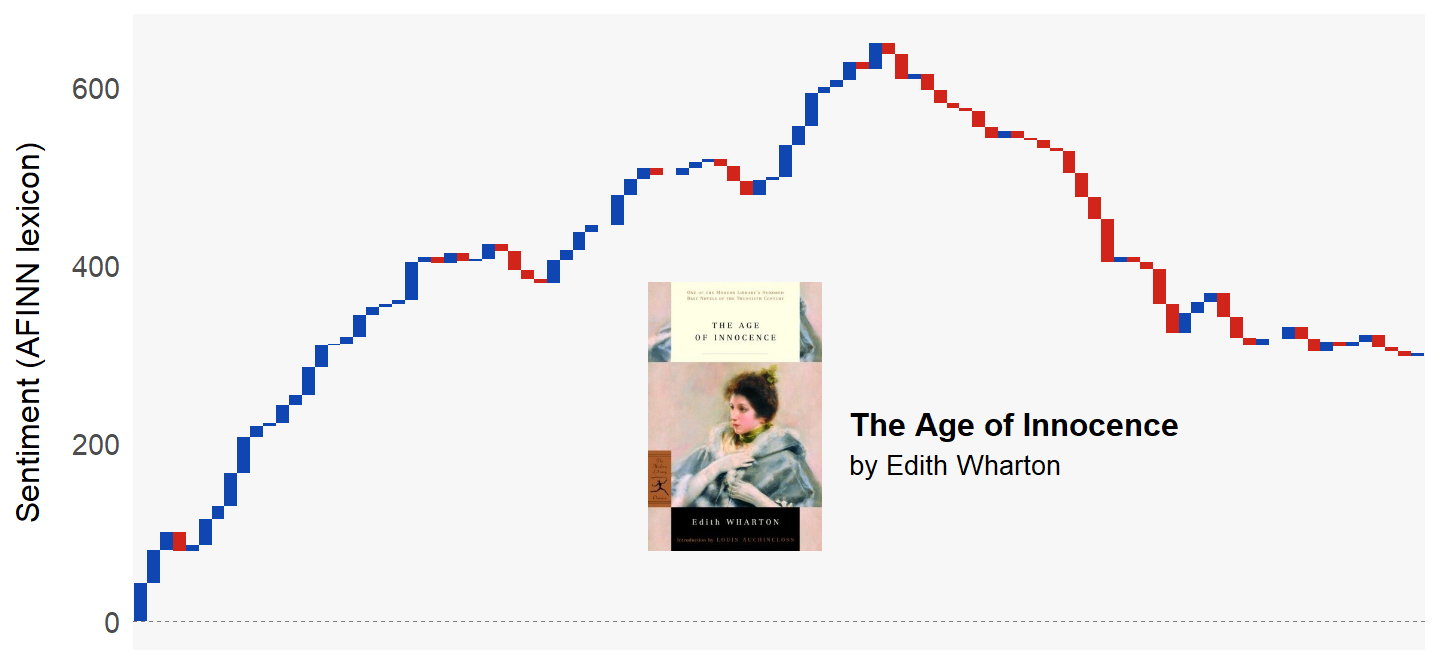
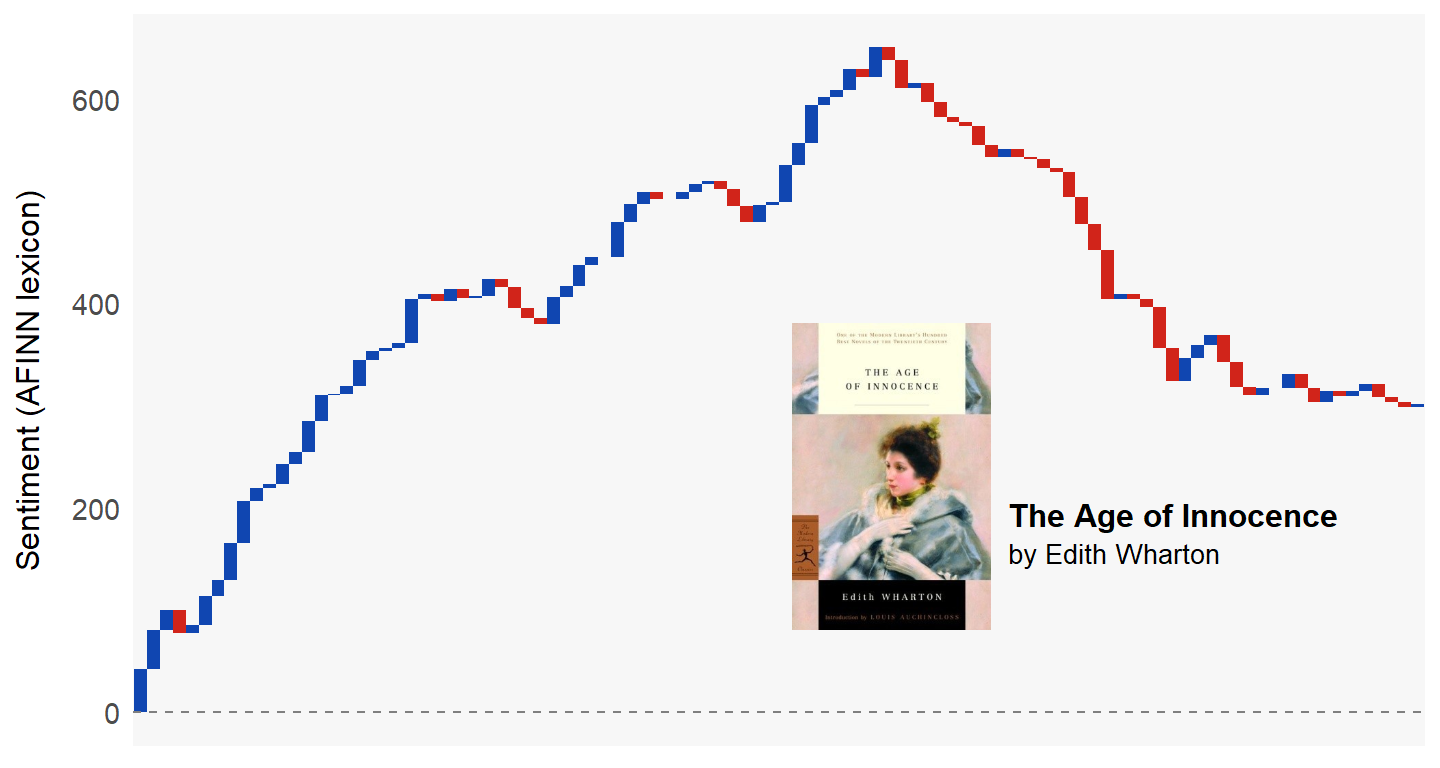
edit to post

diff --git a/docs/posts/2022-11-19-the-emotional-shape-of-novels/index.html b/docs/posts/2022-11-19-the-emotional-shape-of-novels/index.html
@@ -106,7 +106,7 @@ code span.wa { color: #5e5e5e; font-style: italic; } /* Warning */
 <meta property="og:url" content="https://ksreyes.github.io/twopoints/posts/2022-11-19-the-emotional-shape-of-novels/"/>
 <meta property="og:image" content="https://ksreyes.github.io/twopoints/posts/2022-11-19-the-emotional-shape-of-novels/shape-of-novels_files/figure-html5/unnamed-chunk-6-1.png"/>
 <meta property="og:image:width" content="1440"/>
-<meta property="og:image:height" content="672"/>
+<meta property="og:image:height" content="768"/>
 <meta property="og:locale" content="en_US"/>
 <meta property="og:site_name" content="Two Points Make a Line"/>
 
@@ -117,7 +117,7 @@ code span.wa { color: #5e5e5e; font-style: italic; } /* Warning */
 <meta property="twitter:url" content="https://ksreyes.github.io/twopoints/posts/2022-11-19-the-emotional-shape-of-novels/"/>
 <meta property="twitter:image" content="https://ksreyes.github.io/twopoints/posts/2022-11-19-the-emotional-shape-of-novels/shape-of-novels_files/figure-html5/unnamed-chunk-6-1.png"/>
 <meta property="twitter:image:width" content="1440"/>
-<meta property="twitter:image:height" content="672"/>
+<meta property="twitter:image:height" content="768"/>
 
 <!--/radix_placeholder_meta_tags-->
   <!--radix_placeholder_rmarkdown_metadata-->
@@ -2550,7 +2550,7 @@ d-appendix d-footnote-list a.footnote-backlink {
 <span>                draw_axis.x <span class='op'>=</span> <span class='st'>"none"</span>,</span>
 <span>                fill_by_sign <span class='op'>=</span> <span class='cn'>FALSE</span>, </span>
 <span>                fill_colours <span class='op'>=</span> <span class='va'>tess</span><span class='op'>$</span><span class='va'>fill</span><span class='op'>)</span> <span class='op'>+</span> </span>
-<span>  <span class='fu'><a href='https://ggplot2.tidyverse.org/reference/geom_abline.html'>geom_hline</a></span><span class='op'>(</span>yintercept <span class='op'>=</span> <span class='fl'>0</span>, color <span class='op'>=</span> <span class='st'>"gray50"</span>, size <span class='op'>=</span> <span class='fl'>.25</span>, linetype <span class='op'>=</span> <span class='st'>"dashed"</span><span class='op'>)</span> <span class='op'>+</span> </span>
+<span>  <span class='fu'><a href='https://ggplot2.tidyverse.org/reference/geom_abline.html'>geom_hline</a></span><span class='op'>(</span>yintercept <span class='op'>=</span> <span class='fl'>0</span>, color <span class='op'>=</span> <span class='st'>"gray50"</span>, size <span class='op'>=</span> <span class='fl'>.5</span>, linetype <span class='op'>=</span> <span class='st'>"dashed"</span><span class='op'>)</span> <span class='op'>+</span> </span>
 <span>  <span class='fu'><a href='https://ggplot2.tidyverse.org/reference/scale_continuous.html'>scale_y_continuous</a></span><span class='op'>(</span>name <span class='op'>=</span> <span class='st'>"Sentiment (AFINN lexicon)"</span><span class='op'>)</span> <span class='op'>+</span> </span>
 <span>  <span class='fu'><a href='https://ggplot2.tidyverse.org/reference/theme.html'>theme</a></span><span class='op'>(</span>axis.title <span class='op'>=</span> <span class='fu'><a href='https://ggplot2.tidyverse.org/reference/element.html'>element_blank</a></span><span class='op'>(</span><span class='op'>)</span>,</span>
 <span>        axis.title.x <span class='op'>=</span> <span class='fu'><a href='https://ggplot2.tidyverse.org/reference/element.html'>element_blank</a></span><span class='op'>(</span><span class='op'>)</span>,</span>
@@ -2574,11 +2574,11 @@ d-appendix d-footnote-list a.footnote-backlink {
 <span></span>
 <span><span class='fu'><a href='https://wilkelab.org/cowplot/reference/ggdraw.html'>ggdraw</a></span><span class='op'>(</span><span class='va'>wf</span><span class='op'>)</span> <span class='op'>+</span> </span>
 <span>  <span class='fu'><a href='https://wilkelab.org/cowplot/reference/draw_image.html'>draw_image</a></span><span class='op'>(</span><span class='st'>"https://i.gr-assets.com/images/S/compressed.photo.goodreads.com/books/1543250144l/42959097._SY475_.jpg"</span>,</span>
-<span>             x <span class='op'>=</span> <span class='fl'>.16</span>, y <span class='op'>=</span> <span class='fl'>.1</span>, halign <span class='op'>=</span> <span class='fl'>0</span>, valign <span class='op'>=</span> <span class='fl'>0</span>, scale <span class='op'>=</span> <span class='fl'>.4</span><span class='op'>)</span> <span class='op'>+</span> </span>
+<span>             x <span class='op'>=</span> <span class='fl'>.15</span>, y <span class='op'>=</span> <span class='fl'>.1</span>, halign <span class='op'>=</span> <span class='fl'>0</span>, valign <span class='op'>=</span> <span class='fl'>0</span>, scale <span class='op'>=</span> <span class='fl'>.4</span><span class='op'>)</span> <span class='op'>+</span> </span>
 <span>  <span class='fu'><a href='https://wilkelab.org/cowplot/reference/draw_label.html'>draw_label</a></span><span class='op'>(</span><span class='st'>"Tess of the d'Urbervilles"</span>,</span>
-<span>             x <span class='op'>=</span> <span class='fl'>.3</span>, y <span class='op'>=</span> <span class='fl'>.29</span>, hjust <span class='op'>=</span> <span class='fl'>0</span>, vjust <span class='op'>=</span> <span class='fl'>.5</span>, size <span class='op'>=</span> <span class='fl'>12</span>, fontface <span class='op'>=</span> <span class='st'>"bold"</span><span class='op'>)</span> <span class='op'>+</span> </span>
+<span>             x <span class='op'>=</span> <span class='fl'>.15</span> <span class='op'>+</span> <span class='fl'>.15</span>, y <span class='op'>=</span> <span class='fl'>.1</span> <span class='op'>+</span> <span class='fl'>.15</span>, hjust <span class='op'>=</span> <span class='fl'>0</span>, vjust <span class='op'>=</span> <span class='fl'>.5</span>, size <span class='op'>=</span> <span class='fl'>12</span>, fontface <span class='op'>=</span> <span class='st'>"bold"</span><span class='op'>)</span> <span class='op'>+</span> </span>
 <span>  <span class='fu'><a href='https://wilkelab.org/cowplot/reference/draw_label.html'>draw_label</a></span><span class='op'>(</span><span class='st'>"by Thomas Hardy"</span>,</span>
-<span>             x <span class='op'>=</span> <span class='fl'>.3</span>, y <span class='op'>=</span> <span class='fl'>.23</span>, hjust <span class='op'>=</span> <span class='fl'>0</span>, vjust <span class='op'>=</span> <span class='fl'>.5</span>, size <span class='op'>=</span> <span class='fl'>10</span><span class='op'>)</span></span></code></pre>
+<span>             x <span class='op'>=</span> <span class='fl'>.15</span> <span class='op'>+</span> <span class='fl'>.15</span>, y <span class='op'>=</span> <span class='fl'>.1</span> <span class='op'>+</span> <span class='fl'>.10</span>, hjust <span class='op'>=</span> <span class='fl'>0</span>, vjust <span class='op'>=</span> <span class='fl'>.5</span>, size <span class='op'>=</span> <span class='fl'>10</span><span class='op'>)</span></span></code></pre>
 </div>
 <p><img src="shape-of-novels_files/figure-html5/unnamed-chunk-5-1.png" width="720" /></p>
 </div>
@@ -2603,7 +2603,7 @@ Show code
 <span>                draw_axis.x <span class='op'>=</span> <span class='st'>"none"</span>,</span>
 <span>                fill_by_sign <span class='op'>=</span> <span class='cn'>FALSE</span>, </span>
 <span>                fill_colours <span class='op'>=</span> <span class='va'>age</span><span class='op'>$</span><span class='va'>fill</span><span class='op'>)</span> <span class='op'>+</span> </span>
-<span>  <span class='fu'><a href='https://ggplot2.tidyverse.org/reference/geom_abline.html'>geom_hline</a></span><span class='op'>(</span>yintercept <span class='op'>=</span> <span class='fl'>0</span>, color <span class='op'>=</span> <span class='st'>"gray50"</span>, size <span class='op'>=</span> <span class='fl'>.25</span>, linetype <span class='op'>=</span> <span class='st'>"dashed"</span><span class='op'>)</span> <span class='op'>+</span> </span>
+<span>  <span class='fu'><a href='https://ggplot2.tidyverse.org/reference/geom_abline.html'>geom_hline</a></span><span class='op'>(</span>yintercept <span class='op'>=</span> <span class='fl'>0</span>, color <span class='op'>=</span> <span class='st'>"gray50"</span>, size <span class='op'>=</span> <span class='fl'>.5</span>, linetype <span class='op'>=</span> <span class='st'>"dashed"</span><span class='op'>)</span> <span class='op'>+</span> </span>
 <span>  <span class='fu'><a href='https://ggplot2.tidyverse.org/reference/scale_continuous.html'>scale_y_continuous</a></span><span class='op'>(</span>name <span class='op'>=</span> <span class='st'>"Sentiment (AFINN lexicon)"</span><span class='op'>)</span> <span class='op'>+</span> </span>
 <span>  <span class='fu'><a href='https://ggplot2.tidyverse.org/reference/theme.html'>theme</a></span><span class='op'>(</span>axis.title <span class='op'>=</span> <span class='fu'><a href='https://ggplot2.tidyverse.org/reference/element.html'>element_blank</a></span><span class='op'>(</span><span class='op'>)</span>,</span>
 <span>        axis.title.x <span class='op'>=</span> <span class='fu'><a href='https://ggplot2.tidyverse.org/reference/element.html'>element_blank</a></span><span class='op'>(</span><span class='op'>)</span>,</span>
@@ -2617,11 +2617,11 @@ Show code
 <span></span>
 <span><span class='fu'><a href='https://wilkelab.org/cowplot/reference/ggdraw.html'>ggdraw</a></span><span class='op'>(</span><span class='va'>wf</span><span class='op'>)</span> <span class='op'>+</span> </span>
 <span>  <span class='fu'><a href='https://wilkelab.org/cowplot/reference/draw_image.html'>draw_image</a></span><span class='op'>(</span><span class='st'>"https://i.gr-assets.com/images/S/compressed.photo.goodreads.com/books/1320402548l/545294.jpg"</span>,</span>
-<span>             x <span class='op'>=</span> <span class='fl'>.45</span>, y <span class='op'>=</span> <span class='fl'>.18</span>, halign <span class='op'>=</span> <span class='fl'>0</span>, valign <span class='op'>=</span> <span class='fl'>0</span>, scale <span class='op'>=</span> <span class='fl'>.4</span><span class='op'>)</span> <span class='op'>+</span> </span>
+<span>             x <span class='op'>=</span> <span class='fl'>.55</span>, y <span class='op'>=</span> <span class='fl'>.18</span>, halign <span class='op'>=</span> <span class='fl'>0</span>, valign <span class='op'>=</span> <span class='fl'>0</span>, scale <span class='op'>=</span> <span class='fl'>.4</span><span class='op'>)</span> <span class='op'>+</span> </span>
 <span>  <span class='fu'><a href='https://wilkelab.org/cowplot/reference/draw_label.html'>draw_label</a></span><span class='op'>(</span><span class='st'>"The Age of Innocence"</span>,</span>
-<span>             x <span class='op'>=</span> <span class='fl'>.45</span> <span class='op'>+</span> <span class='fl'>.14</span>, y <span class='op'>=</span> <span class='fl'>.18</span> <span class='op'>+</span> <span class='fl'>.19</span>, hjust <span class='op'>=</span> <span class='fl'>0</span>, vjust <span class='op'>=</span> <span class='fl'>.5</span>, size <span class='op'>=</span> <span class='fl'>12</span>, fontface <span class='op'>=</span> <span class='st'>"bold"</span><span class='op'>)</span> <span class='op'>+</span> </span>
+<span>             x <span class='op'>=</span> <span class='fl'>.55</span> <span class='op'>+</span> <span class='fl'>.15</span>, y <span class='op'>=</span> <span class='fl'>.18</span> <span class='op'>+</span> <span class='fl'>.15</span>, hjust <span class='op'>=</span> <span class='fl'>0</span>, vjust <span class='op'>=</span> <span class='fl'>.5</span>, size <span class='op'>=</span> <span class='fl'>12</span>, fontface <span class='op'>=</span> <span class='st'>"bold"</span><span class='op'>)</span> <span class='op'>+</span> </span>
 <span>  <span class='fu'><a href='https://wilkelab.org/cowplot/reference/draw_label.html'>draw_label</a></span><span class='op'>(</span><span class='st'>"by Edith Wharton"</span>,</span>
-<span>             x <span class='op'>=</span> <span class='fl'>.45</span> <span class='op'>+</span> <span class='fl'>.14</span>, y <span class='op'>=</span> <span class='fl'>.18</span> <span class='op'>+</span> <span class='fl'>.13</span>, hjust <span class='op'>=</span> <span class='fl'>0</span>, vjust <span class='op'>=</span> <span class='fl'>.5</span>, size <span class='op'>=</span> <span class='fl'>10</span><span class='op'>)</span></span></code></pre>
+<span>             x <span class='op'>=</span> <span class='fl'>.55</span> <span class='op'>+</span> <span class='fl'>.15</span>, y <span class='op'>=</span> <span class='fl'>.18</span> <span class='op'>+</span> <span class='fl'>.10</span>, hjust <span class='op'>=</span> <span class='fl'>0</span>, vjust <span class='op'>=</span> <span class='fl'>.5</span>, size <span class='op'>=</span> <span class='fl'>10</span><span class='op'>)</span></span></code></pre>
 </div>
 </details>
 <p><img src="shape-of-novels_files/figure-html5/unnamed-chunk-6-1.png" width="720" data-distill-preview=1 /></p>
@@ -2648,7 +2648,7 @@ Show code
 <span>                draw_axis.x <span class='op'>=</span> <span class='st'>"none"</span>,</span>
 <span>                fill_by_sign <span class='op'>=</span> <span class='cn'>FALSE</span>, </span>
 <span>                fill_colours <span class='op'>=</span> <span class='va'>swann</span><span class='op'>$</span><span class='va'>fill</span><span class='op'>)</span> <span class='op'>+</span> </span>
-<span>  <span class='fu'><a href='https://ggplot2.tidyverse.org/reference/geom_abline.html'>geom_hline</a></span><span class='op'>(</span>yintercept <span class='op'>=</span> <span class='fl'>0</span>, color <span class='op'>=</span> <span class='st'>"gray50"</span>, size <span class='op'>=</span> <span class='fl'>.25</span>, linetype <span class='op'>=</span> <span class='st'>"dashed"</span><span class='op'>)</span> <span class='op'>+</span> </span>
+<span>  <span class='fu'><a href='https://ggplot2.tidyverse.org/reference/geom_abline.html'>geom_hline</a></span><span class='op'>(</span>yintercept <span class='op'>=</span> <span class='fl'>0</span>, color <span class='op'>=</span> <span class='st'>"gray50"</span>, size <span class='op'>=</span> <span class='fl'>.5</span>, linetype <span class='op'>=</span> <span class='st'>"dashed"</span><span class='op'>)</span> <span class='op'>+</span> </span>
 <span>  <span class='fu'><a href='https://ggplot2.tidyverse.org/reference/scale_continuous.html'>scale_y_continuous</a></span><span class='op'>(</span>name <span class='op'>=</span> <span class='st'>"Sentiment (AFINN lexicon)"</span><span class='op'>)</span> <span class='op'>+</span> </span>
 <span>  <span class='fu'><a href='https://ggplot2.tidyverse.org/reference/theme.html'>theme</a></span><span class='op'>(</span>axis.title <span class='op'>=</span> <span class='fu'><a href='https://ggplot2.tidyverse.org/reference/element.html'>element_blank</a></span><span class='op'>(</span><span class='op'>)</span>,</span>
 <span>        axis.title.x <span class='op'>=</span> <span class='fu'><a href='https://ggplot2.tidyverse.org/reference/element.html'>element_blank</a></span><span class='op'>(</span><span class='op'>)</span>,</span>
@@ -2662,11 +2662,11 @@ Show code
 <span></span>
 <span><span class='fu'><a href='https://wilkelab.org/cowplot/reference/ggdraw.html'>ggdraw</a></span><span class='op'>(</span><span class='va'>wf</span><span class='op'>)</span> <span class='op'>+</span> </span>
 <span>  <span class='fu'><a href='https://wilkelab.org/cowplot/reference/draw_image.html'>draw_image</a></span><span class='op'>(</span><span class='st'>"https://i.gr-assets.com/images/S/compressed.photo.goodreads.com/books/1657565006l/133539._SY475_.jpg"</span>,</span>
-<span>             x <span class='op'>=</span> <span class='fl'>.16</span>, y <span class='op'>=</span> <span class='fl'>.3</span>, halign <span class='op'>=</span> <span class='fl'>0</span>, valign <span class='op'>=</span> <span class='fl'>0</span>, scale <span class='op'>=</span> <span class='fl'>.4</span><span class='op'>)</span> <span class='op'>+</span> </span>
+<span>             x <span class='op'>=</span> <span class='fl'>.15</span>, y <span class='op'>=</span> <span class='fl'>.3</span>, halign <span class='op'>=</span> <span class='fl'>0</span>, valign <span class='op'>=</span> <span class='fl'>0</span>, scale <span class='op'>=</span> <span class='fl'>.4</span><span class='op'>)</span> <span class='op'>+</span> </span>
 <span>  <span class='fu'><a href='https://wilkelab.org/cowplot/reference/draw_label.html'>draw_label</a></span><span class='op'>(</span><span class='st'>"Swann's Way"</span>,</span>
-<span>             x <span class='op'>=</span> <span class='fl'>.16</span> <span class='op'>+</span> <span class='fl'>.14</span>, y <span class='op'>=</span> <span class='fl'>.3</span> <span class='op'>+</span> <span class='fl'>.19</span>, hjust <span class='op'>=</span> <span class='fl'>0</span>, vjust <span class='op'>=</span> <span class='fl'>.5</span>, size <span class='op'>=</span> <span class='fl'>12</span>, fontface <span class='op'>=</span> <span class='st'>"bold"</span><span class='op'>)</span> <span class='op'>+</span> </span>
+<span>             x <span class='op'>=</span> <span class='fl'>.15</span> <span class='op'>+</span> <span class='fl'>.15</span>, y <span class='op'>=</span> <span class='fl'>.3</span> <span class='op'>+</span> <span class='fl'>.15</span>, hjust <span class='op'>=</span> <span class='fl'>0</span>, vjust <span class='op'>=</span> <span class='fl'>.5</span>, size <span class='op'>=</span> <span class='fl'>12</span>, fontface <span class='op'>=</span> <span class='st'>"bold"</span><span class='op'>)</span> <span class='op'>+</span> </span>
 <span>  <span class='fu'><a href='https://wilkelab.org/cowplot/reference/draw_label.html'>draw_label</a></span><span class='op'>(</span><span class='st'>"by Marcel Proust"</span>,</span>
-<span>             x <span class='op'>=</span> <span class='fl'>.16</span> <span class='op'>+</span> <span class='fl'>.14</span>, y <span class='op'>=</span> <span class='fl'>.3</span> <span class='op'>+</span> <span class='fl'>.13</span>, hjust <span class='op'>=</span> <span class='fl'>0</span>, vjust <span class='op'>=</span> <span class='fl'>.5</span>, size <span class='op'>=</span> <span class='fl'>10</span><span class='op'>)</span></span></code></pre>
+<span>             x <span class='op'>=</span> <span class='fl'>.15</span> <span class='op'>+</span> <span class='fl'>.15</span>, y <span class='op'>=</span> <span class='fl'>.3</span> <span class='op'>+</span> <span class='fl'>.10</span>, hjust <span class='op'>=</span> <span class='fl'>0</span>, vjust <span class='op'>=</span> <span class='fl'>.5</span>, size <span class='op'>=</span> <span class='fl'>10</span><span class='op'>)</span></span></code></pre>
 </div>
 </details>
 <p><img src="shape-of-novels_files/figure-html5/unnamed-chunk-7-1.png" width="720" /></p>
